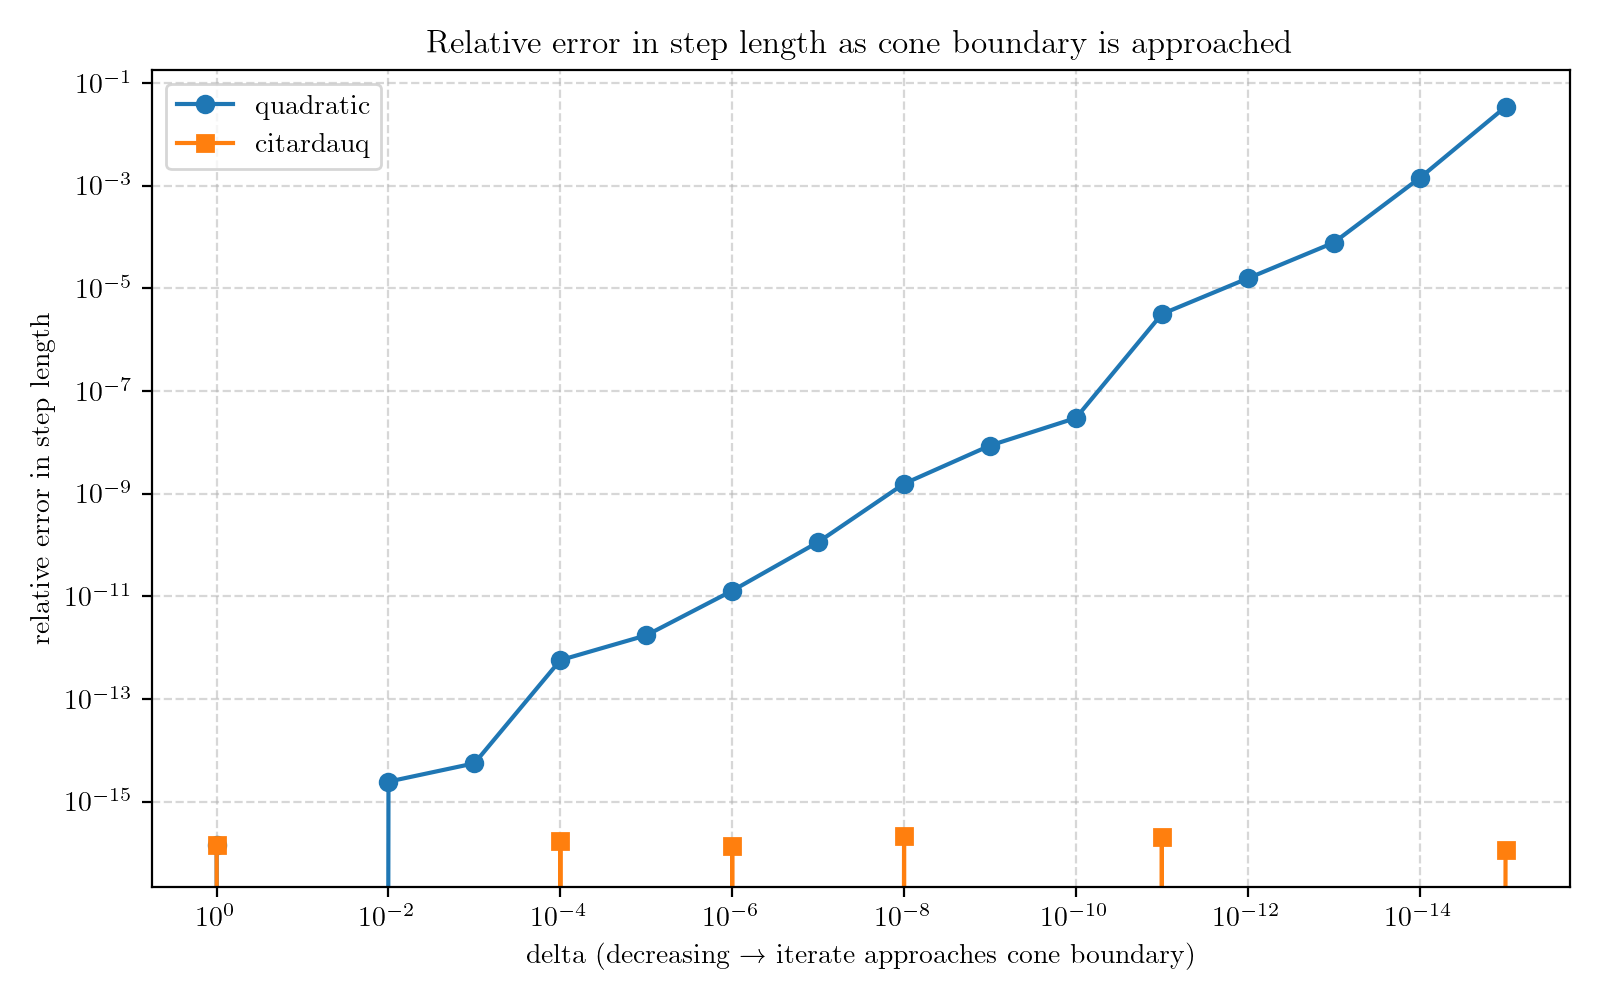
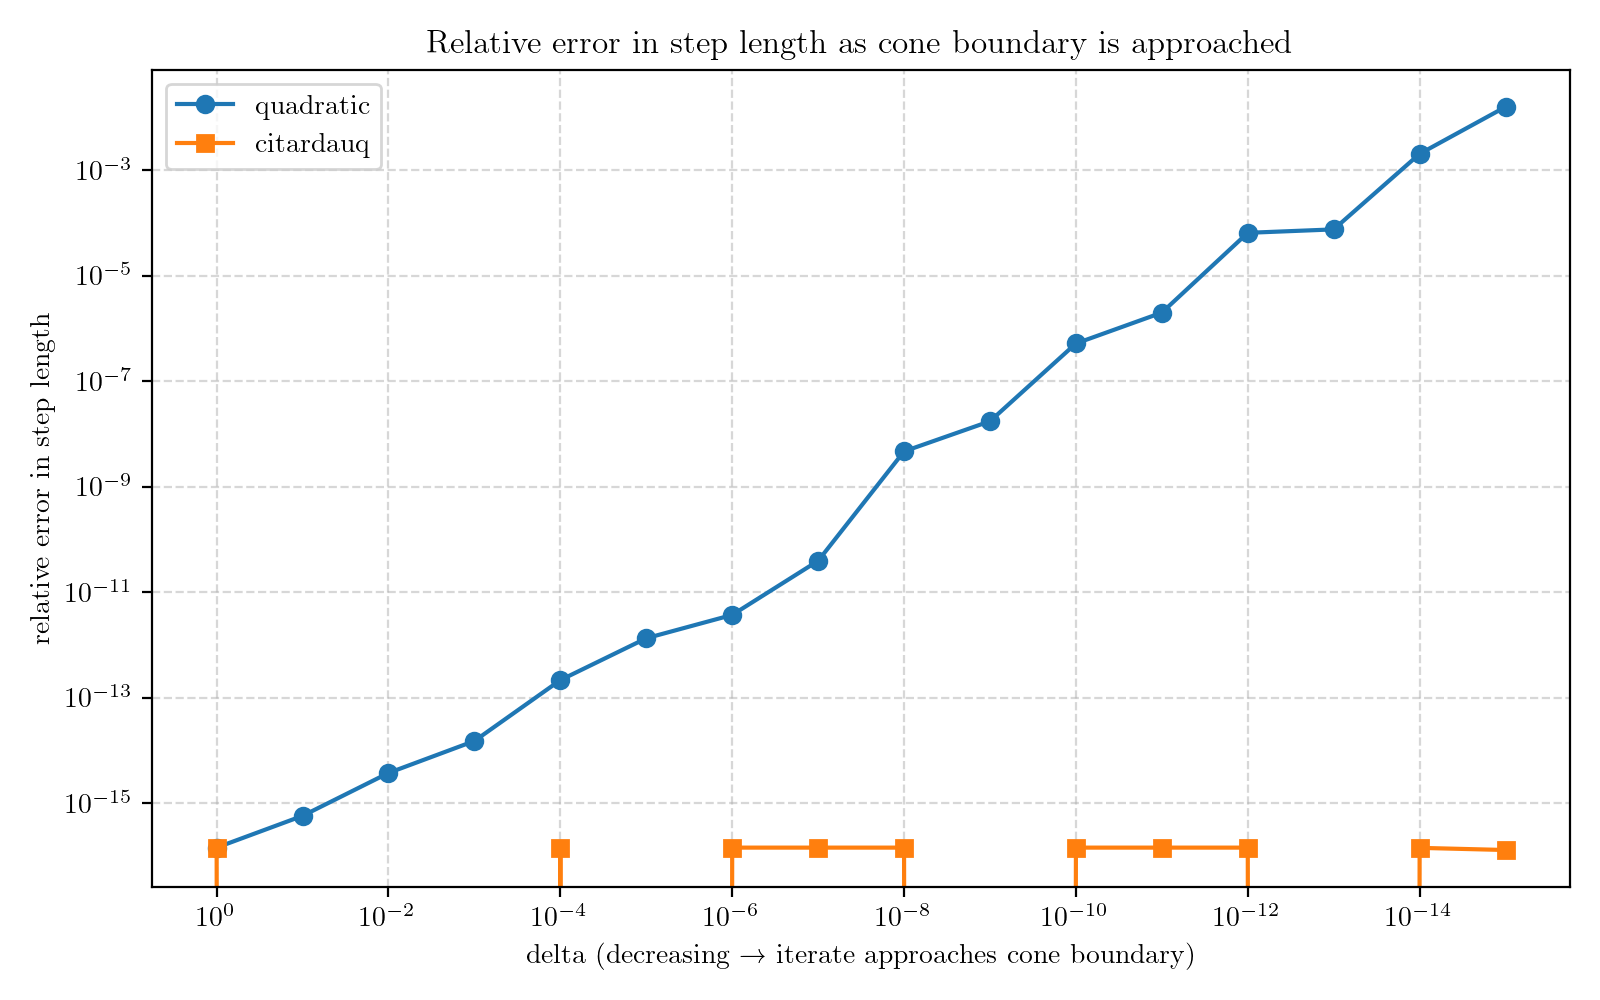
dx should be smaller as boundary is approached

diff --git a/run_tests.py b/run_tests.py
@@ -12,20 +12,19 @@ subprocess.run(["gcc", "-O2", "-o", exe, src, "-lm"], check=True)
 
 mpmath.mp.dps = 50
 
-# Fixed vectors: x = [sqrt(2), 1-delta, 1-delta], dx = [0.5, 1, 1]
-x0  = math.sqrt(2)
-dx0 = 0.5
-dx1 = np.array([1.0, 1.0])
-
-a = dx0**2 - np.dot(dx1, dx1)   # -1.75, constant
-
-# delta sweeps from 1 toward 0 — one root → 0, other → away from 1
+# delta sweeps from 1 toward 0. x approaches the boundary of the cone and dx becomes shorter (as would happen in IPM convergence).
 deltas = [10**(-k) for k in range(16)]
 
 test_cases      = []
 true_small_roots = []   # root near 0 (max of the two, since a < 0)
 
 for delta in deltas:
+    # x = [sqrt(2), 1-delta, 1-delta], dx = [0.5, 1, 1] * delta
+    x0  = math.sqrt(2)
+    dx0 = 1 * delta
+    dx1 = np.array([2.0, 2.0]) * delta
+    a = dx0**2 - np.dot(dx1, dx1)
+
     x1 = np.array([1 - delta, 1 - delta])
     b  = 2 * (x0 * dx0 - np.dot(x1, dx1))
     c  = x0**2 - np.dot(x1, x1)
